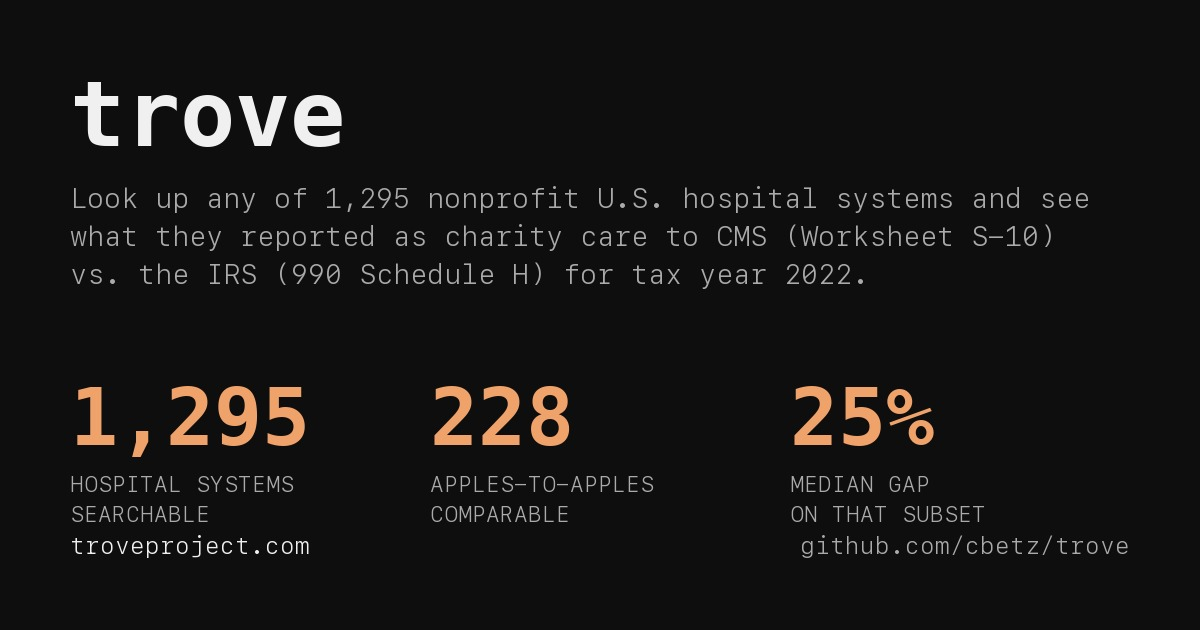
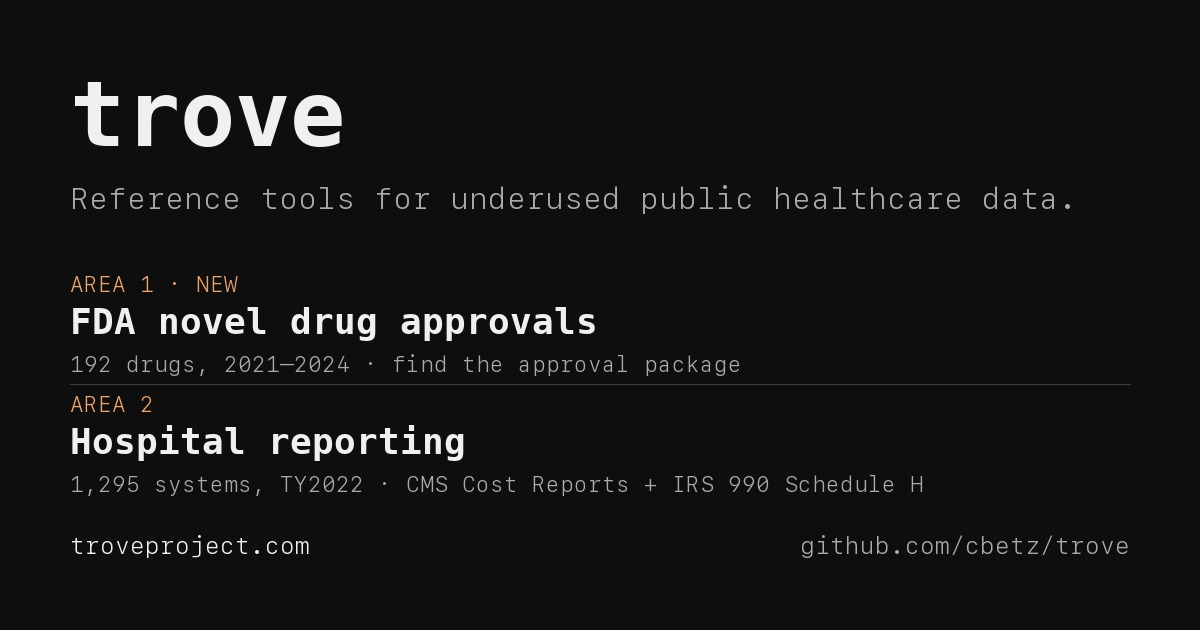
og:image: regenerate for multi-area framing
The shared og:image was still showing the hospital-only stats card
("1,295 / 228 / 25%") from before the multi-area conversion. That's
misleading now — the project's headline is two areas, not one.

Redesigned the card to show the multi-area structure directly:
- "trove" headline + new tagline ("Reference tools for underused
  public healthcare data.")
- "AREA 1 · NEW" — FDA novel drug approvals — 192 drugs, 2021–2024
  · find the approval package
- "AREA 2" — Hospital reporting — 1,295 systems, TY2022 · CMS Cost
  Reports + IRS 990 Schedule H
- footer: troveproject.com / github.com/cbetz/trove

build_og_image.py now reads from both data bundles
(fda_approvals_nme_recent.json + community_benefit_gap_2022.json)
so the card stays in sync if either area's totals change.

Cache-bust on the og:image URL bumped to ?v=20260505c-multi
across all three pages — X's image proxy will re-fetch from scratch
rather than serving the cached hospital-flavored version. Same fix
pattern that worked for the original PNG-to-JPG migration.

og:image:alt and twitter:image:alt updated on the two sub-pages to
describe the project-level card rather than the page-level content
(since both sub-pages share the same og:image asset).

diff --git a/web/hospitals/index.html b/web/hospitals/index.html
@@ -10,17 +10,17 @@
   <meta property="og:title" content="trove — look up a hospital's CMS-vs-IRS charity-care reporting">
   <meta property="og:description" content="Look up any of 1,295 nonprofit U.S. hospital systems and see what they reported as charity care to CMS (Worksheet S-10) vs. the IRS (Form 990 Schedule H) for tax year 2022.">
   <meta property="og:url" content="https://troveproject.com/hospitals/">
-  <meta property="og:image" content="https://troveproject.com/og.jpg?v=20260505a">
-  <meta property="og:image:secure_url" content="https://troveproject.com/og.jpg?v=20260505a">
+  <meta property="og:image" content="https://troveproject.com/og.jpg?v=20260505c-multi">
+  <meta property="og:image:secure_url" content="https://troveproject.com/og.jpg?v=20260505c-multi">
   <meta property="og:image:type" content="image/jpeg">
   <meta property="og:image:width" content="1200">
   <meta property="og:image:height" content="630">
-  <meta property="og:image:alt" content="trove — look up any of 1,295 nonprofit U.S. hospital systems and see what they reported as charity care to CMS vs. the IRS for tax year 2022.">
+  <meta property="og:image:alt" content="trove — reference tools for underused public healthcare data.">
   <meta name="twitter:card" content="summary_large_image">
   <meta name="twitter:title" content="trove — look up a hospital's CMS-vs-IRS charity-care reporting">
   <meta name="twitter:description" content="Look up any of 1,295 nonprofit U.S. hospital systems and see what they reported as charity care to CMS vs. the IRS for tax year 2022.">
-  <meta name="twitter:image" content="https://troveproject.com/og.jpg?v=20260505a">
-  <meta name="twitter:image:alt" content="trove — look up any of 1,295 nonprofit U.S. hospital systems and see what they reported as charity care to CMS vs. the IRS for tax year 2022.">
+  <meta name="twitter:image" content="https://troveproject.com/og.jpg?v=20260505c-multi">
+  <meta name="twitter:image:alt" content="trove — reference tools for underused public healthcare data.">
   <style>
     :root {
       color-scheme: light dark;

diff --git a/web/index.html b/web/index.html
@@ -10,17 +10,17 @@
   <meta property="og:title" content="trove — reference tools for underused healthcare data">
   <meta property="og:description" content="Open-source lookup tools for underused public-domain healthcare datasets. Currently: FDA drug approvals and nonprofit hospital reporting (CMS Cost Reports + IRS 990 Schedule H).">
   <meta property="og:url" content="https://troveproject.com/">
-  <meta property="og:image" content="https://troveproject.com/og.jpg?v=20260505b">
-  <meta property="og:image:secure_url" content="https://troveproject.com/og.jpg?v=20260505b">
+  <meta property="og:image" content="https://troveproject.com/og.jpg?v=20260505c-multi">
+  <meta property="og:image:secure_url" content="https://troveproject.com/og.jpg?v=20260505c-multi">
   <meta property="og:image:type" content="image/jpeg">
   <meta property="og:image:width" content="1200">
   <meta property="og:image:height" content="630">
-  <meta property="og:image:alt" content="trove — reference tools for underused healthcare data.">
+  <meta property="og:image:alt" content="trove — reference tools for underused public healthcare data.">
   <meta name="twitter:card" content="summary_large_image">
   <meta name="twitter:title" content="trove — reference tools for underused healthcare data">
   <meta name="twitter:description" content="Open-source lookup tools for underused public-domain healthcare datasets. Currently: FDA drug approvals and nonprofit hospital reporting (CMS Cost Reports + IRS 990 Schedule H).">
-  <meta name="twitter:image" content="https://troveproject.com/og.jpg?v=20260505b">
-  <meta name="twitter:image:alt" content="trove — reference tools for underused healthcare data.">
+  <meta name="twitter:image" content="https://troveproject.com/og.jpg?v=20260505c-multi">
+  <meta name="twitter:image:alt" content="trove — reference tools for underused public healthcare data.">
   <style>
     :root {
       color-scheme: light dark;

diff --git a/web/drugs/index.html b/web/drugs/index.html
@@ -10,16 +10,17 @@
   <meta property="og:title" content="trove — look up FDA drug approvals (NMEs, 2021–2024)">
   <meta property="og:description" content="Look up any FDA novel drug approval from 2021–2024 and find the approval package — application number, approval date, indication, and direct links to every document FDA released.">
   <meta property="og:url" content="https://troveproject.com/drugs/">
-  <meta property="og:image" content="https://troveproject.com/og.jpg?v=20260505b">
-  <meta property="og:image:secure_url" content="https://troveproject.com/og.jpg?v=20260505b">
+  <meta property="og:image" content="https://troveproject.com/og.jpg?v=20260505c-multi">
+  <meta property="og:image:secure_url" content="https://troveproject.com/og.jpg?v=20260505c-multi">
   <meta property="og:image:type" content="image/jpeg">
   <meta property="og:image:width" content="1200">
   <meta property="og:image:height" content="630">
-  <meta property="og:image:alt" content="trove — reference tools for underused healthcare data.">
+  <meta property="og:image:alt" content="trove — reference tools for underused public healthcare data.">
   <meta name="twitter:card" content="summary_large_image">
   <meta name="twitter:title" content="trove — look up FDA drug approvals (NMEs, 2021–2024)">
-  <meta name="twitter:description" content="Look up any FDA novel drug approval from 2021–2024.">
-  <meta name="twitter:image" content="https://troveproject.com/og.jpg?v=20260505b">
+  <meta name="twitter:description" content="Look up any FDA novel drug approval from 2021–2024 and find the approval package.">
+  <meta name="twitter:image" content="https://troveproject.com/og.jpg?v=20260505c-multi">
+  <meta name="twitter:image:alt" content="trove — reference tools for underused public healthcare data.">
   <style>
     :root {
       color-scheme: light dark;

diff --git a/scripts/build_og_image.py b/scripts/build_og_image.py
@@ -1,12 +1,11 @@
 """Generate the og:image and twitter:image for troveproject.com.
 
-Produces a 1200x630 PNG showing the project's headline numbers in a
-monospace dark-mode card matching the site aesthetic.
+Produces a 1200x630 JPEG card representing the multi-area trove project
+in a monospace dark-mode style matching the site. Numbers are pulled
+from the live data bundles so the card stays in sync with what each
+area surfaces.
 
-Uses statistics computed from the published gap dataset, so the numbers
-in the image stay in sync with what the site displays.
-
-Usage: ``uv run --with pillow python scripts/build_og_image.py``
+Usage: ``uv run python scripts/build_og_image.py``
 """
 
 from __future__ import annotations
@@ -16,60 +15,87 @@ from pathlib import Path
 
 from PIL import Image, ImageDraw, ImageFont
 
-JSON_IN = Path("web/data/community_benefit_gap_2022.json")
-PNG_OUT = Path("web/og.jpg")
+FDA_JSON = Path("web/data/fda_approvals_nme_recent.json")
+HOSPITALS_JSON = Path("web/data/community_benefit_gap_2022.json")
+JPG_OUT = Path("web/og.jpg")
 
 WIDTH, HEIGHT = 1200, 630  # 1.91:1 — the OG / X-card standard
 BG = (14, 14, 14)
 FG = (240, 240, 240)
 MUTED = (170, 170, 170)
 ACCENT = (240, 162, 107)  # warm orange — matches --pos in dark mode
+DIVIDER = (60, 60, 60)
 
 MENLO_REGULAR = "/System/Library/Fonts/Menlo.ttc"
 SFMONO = "/System/Library/Fonts/SFNSMono.ttf"
 
 
 def main() -> None:
-    bundle = json.loads(JSON_IN.read_text())
-    totals = bundle["totals"]
-    computable = totals["computable"]
-    aligned = totals["aligned_material"]
-    median_pct = totals["median_aligned_material_gap_pct"]
+    fda = json.loads(FDA_JSON.read_text())
+    hospitals = json.loads(HOSPITALS_JSON.read_text())
+    fda_count = fda["totals"]["drugs"]
+    fda_year_min = fda["totals"]["year_min"]
+    fda_year_max = fda["totals"]["year_max"]
+    hospitals_count = hospitals["totals"]["computable"]
 
     img = Image.new("RGB", (WIDTH, HEIGHT), BG)
     draw = ImageDraw.Draw(img)
 
-    title_font = _font(MENLO_REGULAR, 92, idx=1)  # bold variant in TTC
-    body_font = _font(SFMONO, 28)
-    stat_num_font = _font(MENLO_REGULAR, 80, idx=1)
-    stat_label_font = _font(SFMONO, 22)
+    title_font = _font(MENLO_REGULAR, 92, idx=1)
+    tagline_font = _font(SFMONO, 30)
+    area_label_font = _font(SFMONO, 22)
+    area_title_font = _font(MENLO_REGULAR, 36, idx=1)
+    area_sub_font = _font(SFMONO, 22)
     footer_font = _font(SFMONO, 24)
 
     pad = 70
 
+    # Title + tagline
     draw.text((pad, pad - 10), "trove", font=title_font, fill=FG)
-
-    body = (
-        "Look up any of 1,295 nonprofit U.S. hospital systems and see\n"
-        "what they reported as charity care to CMS (Worksheet S-10)\n"
-        "vs. the IRS (990 Schedule H) for tax year 2022."
+    draw.text(
+        (pad, pad + 110),
+        "Reference tools for underused public healthcare data.",
+        font=tagline_font,
+        fill=MUTED,
     )
-    draw.text((pad, pad + 110), body, font=body_font, fill=MUTED, spacing=10)
 
-    stats_y = pad + 300
-    stats_x_starts = [pad, pad + 360, pad + 720]
-    for x, num, label in zip(
-        stats_x_starts,
-        [f"{computable:,}", f"{aligned:,}", f"{round(median_pct * 100)}%"],
-        [
-            "HOSPITAL SYSTEMS\nSEARCHABLE",
-            "APPLES-TO-APPLES\nCOMPARABLE",
-            "MEDIAN GAP\nON THAT SUBSET",
-        ],
-    ):
-        draw.text((x, stats_y), num, font=stat_num_font, fill=ACCENT)
-        draw.text((x, stats_y + 100), label, font=stat_label_font, fill=MUTED, spacing=8)
+    # Two area blocks, stacked
+    area_y = pad + 200
+    block_h = 120
 
+    # Area 1 — FDA drug approvals
+    _draw_area(
+        draw,
+        x=pad,
+        y=area_y,
+        tag="AREA 1 · NEW",
+        title="FDA novel drug approvals",
+        sub=f"{fda_count} drugs, {fda_year_min}–{fda_year_max} · find the approval package",
+        tag_font=area_label_font,
+        title_font=area_title_font,
+        sub_font=area_sub_font,
+    )
+    # Divider line
+    draw.line(
+        [(pad, area_y + block_h - 6), (WIDTH - pad, area_y + block_h - 6)],
+        fill=DIVIDER,
+        width=1,
+    )
+
+    # Area 2 — Hospital reporting
+    _draw_area(
+        draw,
+        x=pad,
+        y=area_y + block_h,
+        tag="AREA 2",
+        title="Hospital reporting",
+        sub=f"{hospitals_count:,} systems, TY2022 · CMS Cost Reports + IRS 990 Schedule H",
+        tag_font=area_label_font,
+        title_font=area_title_font,
+        sub_font=area_sub_font,
+    )
+
+    # Footer
     draw.text((pad, HEIGHT - pad - 30), "troveproject.com", font=footer_font, fill=FG)
     repo_text = "github.com/cbetz/trove"
     repo_w = draw.textlength(repo_text, font=footer_font)
@@ -80,12 +106,27 @@ def main() -> None:
         fill=MUTED,
     )
 
-    PNG_OUT.parent.mkdir(parents=True, exist_ok=True)
-    # JPG instead of PNG: X's card crawler is pickier about PNG metadata
-    # in some cases. JPG at quality 92 looks identical for this content.
-    img.save(PNG_OUT, "JPEG", quality=92, optimize=True)
-    print(f"  → {PNG_OUT} ({PNG_OUT.stat().st_size / 1024:.1f} KB)")
-    print(f"  stats: {computable:,} searchable, {aligned:,} comparable, {round(median_pct * 100)}% median")
+    JPG_OUT.parent.mkdir(parents=True, exist_ok=True)
+    img.save(JPG_OUT, "JPEG", quality=92, optimize=True)
+    print(f"  → {JPG_OUT} ({JPG_OUT.stat().st_size / 1024:.1f} KB)")
+    print(f"  stats: {fda_count} drugs ({fda_year_min}–{fda_year_max}), {hospitals_count:,} hospitals (TY2022)")
+
+
+def _draw_area(
+    draw: ImageDraw.ImageDraw,
+    *,
+    x: int,
+    y: int,
+    tag: str,
+    title: str,
+    sub: str,
+    tag_font: ImageFont.FreeTypeFont,
+    title_font: ImageFont.FreeTypeFont,
+    sub_font: ImageFont.FreeTypeFont,
+) -> None:
+    draw.text((x, y), tag, font=tag_font, fill=ACCENT)
+    draw.text((x, y + 30), title, font=title_font, fill=FG)
+    draw.text((x, y + 80), sub, font=sub_font, fill=MUTED)
 
 
 def _font(path: str, size: int, idx: int = 0) -> ImageFont.FreeTypeFont:
